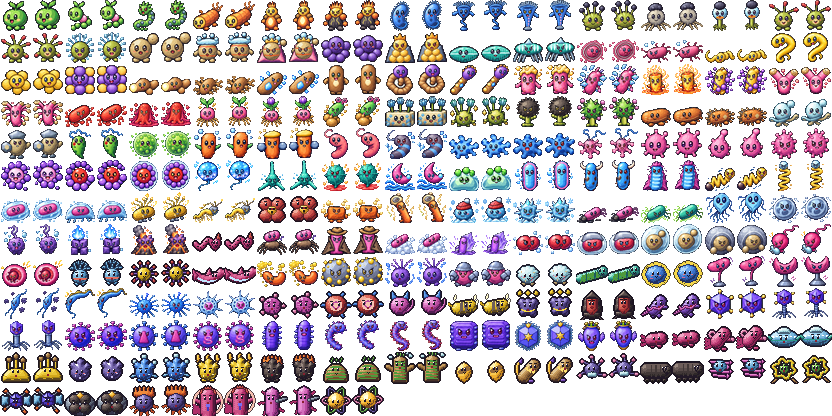
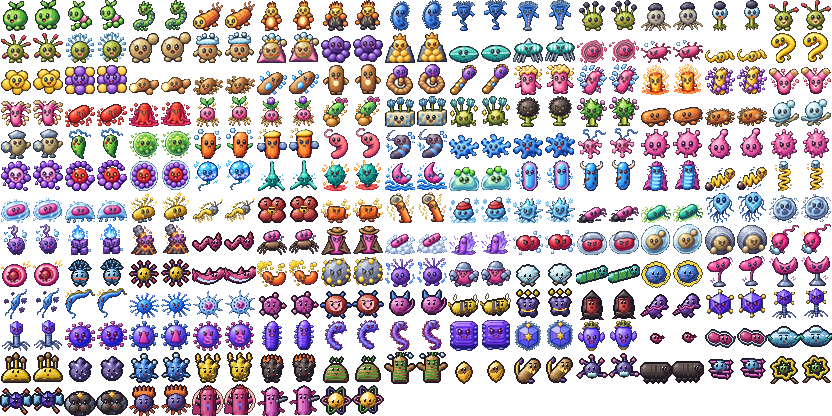
Sustituye la línea Coli-K12/BL21 por Legionel/Pneumophila: E. coli solo es el legendario O157
Claude-Session: https://claude.ai/code/session_018v1fAZrQHSEnPWssP3zxe4

Changed region(s): [[0.75, 0.7812, 0.9375, 0.8438]]

diff --git a/src/game/world/maps.ts b/src/game/world/maps.ts
@@ -130,7 +130,7 @@ add(casa("casa-vecina", "Casa vecina", { to: "pueblo-plaqueta", x: 14, y: 5 }, [
   b.warp({ x: 10, y: 0, w: 2, to: "ciudad-viral", tx: 11, ty: 18, dir: 1, keep: "x" });
   b.encounters([
     { sp: "mucorin", min: 2, max: 4, w: 30 }, { sp: "sacchari", min: 2, max: 4, w: 25 }, { sp: "casei", min: 3, max: 4, w: 12 },
-    { sp: "navicula", min: 2, max: 4, w: 10 }, { sp: "epidermi", min: 3, max: 5, w: 10 }, { sp: "coli-k12", min: 2, max: 5, w: 8 },
+    { sp: "navicula", min: 2, max: 4, w: 10 }, { sp: "epidermi", min: 3, max: 5, w: 10 }, { sp: "legionel", min: 2, max: 5, w: 8 },
     { sp: "proteus-am", min: 3, max: 4, w: 5 },
   ]);
   add(b.done({ music: "ruta" }));
@@ -932,7 +932,7 @@ add(casa("casa-agar", "Casa de Ciudad Agar", { to: "ciudad-agar", x: 22, y: 16 }
   b.npc({ id: "gym5-b", x: 1, y: 10, sprite: "chica", dir: 3, trainer: {
     name: "Laura", clase: "Técnica de Fermentación", team: [["perfringens", 33], ["thermus", 33], ["acetobuty", 34]], sight: 5, money: 150,
     intro: "¡Fermentación ABE: acetona, butanol y etanol! ¿Sabes quién la inventó?", lose: "Chaim Weizmann estaría decepcionado…", after: "La fermentación ABE se usó en la Primera Guerra Mundial para fabricar acetona." } });
-  b.npc({ id: "guia-gym5", x: 4, y: 14, sprite: "becario", dir: 0, talk: ["¡Hola, aspirante! Te doy un consejo.", "El Dr. Mas usa Anaerobios, Antibióticos y Extremófilos de escala industrial.", "¡Su Coli-BL21 es una superfactoría: aguanta mucho!"] });
+  b.npc({ id: "guia-gym5", x: 4, y: 14, sprite: "becario", dir: 0, talk: ["¡Hola, aspirante! Te doy un consejo.", "El Dr. Mas usa Anaerobios, Antibióticos y Extremófilos de escala industrial.", "¡Su Pneumophila salió de una torre de refrigeración: aguanta mucho!"] });
   b.warp({ x: 5, y: 16, w: 3, to: "ciudad-agar", tx: 20, ty: 8, dir: 0 });
   add(b.done({ music: "gimnasio" }));
 }
@@ -1243,7 +1243,7 @@ add(casa("casa-pili", "Casa de Ciudad Pili", { to: "ciudad-pili", x: 21, y: 14 }
   b.npc({ id: "conj-1", x: 12, y: 17, sprite: "chica", move: "pasear", talk: "La conjugación bacteriana es como un intercambio de genes con un puente de pilus. ¡Por eso la isla se llama así!" });
   b.encounters([
     // isla de la conjugación: bacterias que intercambian genes (plásmidos, T-DNA, fagos temperados) y algún virus
-    { sp: "coli-bl21", min: 46, max: 48, w: 14 }, { sp: "bacteriovor", min: 46, max: 48, w: 12 }, { sp: "agrobacter", min: 46, max: 48, w: 12 },
+    { sp: "pneumophila", min: 46, max: 48, w: 14 }, { sp: "bacteriovor", min: 46, max: 48, w: 12 }, { sp: "agrobacter", min: 46, max: 48, w: 12 },
     { sp: "aeruginosa", min: 46, max: 48, w: 10 }, { sp: "chlamydia", min: 46, max: 48, w: 8 }, { sp: "pleomorph", min: 45, max: 47, w: 8 },
     { sp: "lambda-v", min: 46, max: 48, w: 10 }, { sp: "marburg-v", min: 47, max: 49, w: 8 }, { sp: "lentivir", min: 46, max: 48, w: 8 },
     { sp: "mimivir", min: 47, max: 49, w: 6 }, { sp: "retrovir-x", min: 50, max: 50, w: 4 },
@@ -1279,7 +1279,7 @@ add(tienda("tienda-conjugada", "Isla Conjugada", { to: "isla-conjugada", x: 20, 
     intro: "¡Tres años de postdoc para esto! ¡Al menos déjame ganar un combate!", lose: "Ni eso…", after: "Arriba está el laboratorio profundo. Y el jefe. Y… eso." } });
   b.warp({ x: 6, y: 13, w: 3, to: "isla-conjugada", tx: 23, ty: 8, dir: 0 });
   b.warp({ x: 15, y: 2, to: "mansion-2", tx: 14, ty: 3, dir: 0 });
-  b.encounters([{ sp: "coli-k12", min: 45, max: 47, w: 30 }, { sp: "coli-bl21", min: 46, max: 48, w: 30 }, { sp: "lambda-v", min: 46, max: 48, w: 15 }, { sp: "marburg-v", min: 47, max: 49, w: 10 }, { sp: "pleomorph", min: 46, max: 48, w: 15 }]);
+  b.encounters([{ sp: "pleomorph", min: 45, max: 47, w: 30 }, { sp: "lambda-v", min: 46, max: 48, w: 25 }, { sp: "bacteriovor", min: 46, max: 48, w: 20 }, { sp: "marburg-v", min: 47, max: 49, w: 10 }, { sp: "pneumonia-k", min: 46, max: 48, w: 15 }]);
   add(b.done({ music: "guarida", floorEncounters: "suelo_madera" }));
 }
 {

diff --git a/src/game/scenes/casino.ts b/src/game/scenes/casino.ts
@@ -3,11 +3,11 @@ import type { Game, Overlay } from "../game";
 import { Gfx, W, H } from "../gfx";
 
 const REELS: string[][] = [
-  ["coli-k12", "casei", "synechoc", "coli-k12", "butyricum", "luca", "casei", "paramec", "coli-k12", "synechoc", "casei", "butyricum"],
-  ["casei", "coli-k12", "paramec", "luca", "synechoc", "coli-k12", "butyricum", "casei", "paramec", "coli-k12", "synechoc", "casei"],
-  ["synechoc", "casei", "coli-k12", "butyricum", "paramec", "casei", "luca", "coli-k12", "synechoc", "butyricum", "coli-k12", "paramec"],
+  ["legionel", "casei", "synechoc", "legionel", "butyricum", "luca", "casei", "paramec", "legionel", "synechoc", "casei", "butyricum"],
+  ["casei", "legionel", "paramec", "luca", "synechoc", "legionel", "butyricum", "casei", "paramec", "legionel", "synechoc", "casei"],
+  ["synechoc", "casei", "legionel", "butyricum", "paramec", "casei", "luca", "legionel", "synechoc", "butyricum", "legionel", "paramec"],
 ];
-const PAY: Record<string, number> = { luca: 100, synechoc: 15, butyricum: 15, paramec: 15, casei: 10, "coli-k12": 8 };
+const PAY: Record<string, number> = { luca: 100, synechoc: 15, butyricum: 15, paramec: 15, casei: 10, "legionel": 8 };
 const BET = 3;
 
 export function fichas(game: Game): number { return Number(game.state.flags.fichas ?? 0); }
@@ -57,7 +57,7 @@ export class SlotMachine implements Overlay {
     const s = this.pos.map((p, i) => REELS[i][Math.round(p) % 12]);
     let pay = 0;
     if (s[0] === s[1] && s[1] === s[2]) pay = PAY[s[0]] * BET;
-    else if (s[0] === "coli-k12" && s[1] === "coli-k12") pay = 2 * BET;
+    else if (s[0] === "legionel" && s[1] === "legionel") pay = 2 * BET;
     if (pay) {
       setFichas(this.game, fichas(this.game) + pay);
       this.win = pay; this.flash = 60;

diff --git a/tests/engine.test.ts b/tests/engine.test.ts
@@ -222,7 +222,7 @@ describe("Obediencia", () => {
     const run = (cap: number) => {
       let rebeld = 0;
       for (let seed = 1; seed <= 40; seed++) {
-        const b = new Battle({ player: [createMicroo("anthracis", 60, { rng: new Rng(seed) })], foe: [createMicroo("coli-k12", 60, { rng: new Rng(seed + 99) })], wild: true, seed, obeyCap: cap });
+        const b = new Battle({ player: [createMicroo("anthracis", 60, { rng: new Rng(seed) })], foe: [createMicroo("legionel", 60, { rng: new Rng(seed + 99) })], wild: true, seed, obeyCap: cap });
         b.drain();
         b.playTurn([{ kind: "move", slot: 0, move: 0, target: { side: 1, slot: 0 } }], [{ kind: "move", slot: 0, move: 0, target: { side: 0, slot: 0 } }]);
         if (b.drain().some((e) => /no te hace caso|pasa de tus|remolón|otra parte/.test(e.text))) rebeld++;
@@ -237,7 +237,7 @@ describe("Obediencia", () => {
 describe("Level Cap", () => {
   test("con levelCap, los Microos en el tope no ganan experiencia y se avisa", () => {
     const a = createMicroo("anthracis", 20, { rng: new Rng(3) }), lvl = a.level, exp = a.exp;
-    const b = new Battle({ player: [a], foe: [createMicroo("coli-k12", 5, { rng: new Rng(4) })], wild: true, seed: 5, levelCap: 20 });
+    const b = new Battle({ player: [a], foe: [createMicroo("legionel", 5, { rng: new Rng(4) })], wild: true, seed: 5, levelCap: 20 });
     b.drain();
     for (let t = 0; t < 6 && !b.ended; t++) b.playTurn([{ kind: "move", slot: 0, move: 0, target: { side: 1, slot: 0 } }], [{ kind: "move", slot: 0, move: 0, target: { side: 0, slot: 0 } }]);
     expect(b.outcome).toBe("win");

diff --git a/src/game/state.ts b/src/game/state.ts
@@ -47,12 +47,18 @@ export function loadGame(): GameState | null {
   try {
     const raw = localStorage.getItem(KEY);
     if (!raw) return null;
-    const s = JSON.parse(raw) as GameState;
+    const s = JSON.parse(migrarIds(raw)) as GameState;
     if (s.version !== 1) return null;
     s.avatar ??= "chica";
     repararUids(s);
     return s;
   } catch { return null; }
+}
+/** Especies renombradas: E. coli solo existe como el legendario O157, así que la línea Coli pasó a ser Legionella. */
+const IDS_VIEJOS: [string, string][] = [["coli-k12", "legionel"], ["coli-bl21", "pneumophila"]];
+export function migrarIds(raw: string): string {
+  for (const [a, b] of IDS_VIEJOS) raw = raw.split(`"${a}"`).join(`"${b}"`);
+  return raw;
 }
 /** Cada Microo necesita un uid único (las evoluciones y la experiencia se asignan por uid). Las partidas
  *  guardadas antes de corregirlo pueden tener repetidos: se renumeran y el contador sigue después del mayor. */

diff --git a/tools/build_species.py b/tools/build_species.py
@@ -42,7 +42,7 @@ LEGEND = {"prion-sc": 580, "viroid-cad": 580, "sputnik-v": 580,
 def bst_for(i):
     if i in LEGEND: return LEGEND[i]
     r, s, d = root(i), stage(i), depth(root(i))
-    special = {"coli-k12": 200, "coli-bl21": 540, "tardigrad": 540, "myxococcus": 288,
+    special = {"legionel": 200, "pneumophila": 540, "tardigrad": 540, "myxococcus": 288,
                "pleomorph": 325, "halomorph": 525, "electromorph": 525, "pyromorph": 525,
                "poxvir": 300, "mimivir": 420, "pandoravir": 600, "kefirgran": 450,
                "stromatol": 355, "cyanofossil": 495, "amberspor": 355, "palaeobacil": 495,
@@ -75,7 +75,7 @@ W = {  # hp atk def spa spd spe
 }
 SHAPE = {  # formas fijadas a mano
  "tardigrad": [1.9,1.05,1.05,0.6,1.1,0.3], "kefirgran": [2.6,0.45,0.55,0.8,1.35,0.6],
- "coli-k12": [0.8,0.4,1.4,0.6,0.8,1.6], "myxococcus": [1,1,1,1,1,1], "luca": [1,1,1,1,1,1],
+ "legionel": [0.8,0.4,1.4,0.6,0.8,1.6], "myxococcus": [1,1,1,1,1,1], "luca": [1,1,1,1,1,1],
  "ecoli-o157": [1.0,1.2,0.9,1.2,0.9,1.1], "salmonella-typhimurium": [1.0,0.9,0.9,1.3,1.0,1.2],
 }
 STATS = ["hp", "atk", "def", "spa", "spd", "spe"]
@@ -123,7 +123,7 @@ def size_class(i):
     return max(1, min(6, stage(i) + round(bst_for(i) / 200) - 1))
 
 # --- Movimientos ------------------------------------------------------------------
-EXCLUSIVE = {"mimetismo-molecular": {"myxococcus", "luca"}, "agitacion-en-placa": {"coli-k12", "luca"},
+EXCLUSIVE = {"mimetismo-molecular": {"myxococcus", "luca"}, "agitacion-en-placa": {"legionel", "luca"},
              "agotamiento-de-nutrientes": set()}
 HM = {m["id"] for m in moves if m.get("hm")}
 POOL = [m for m in moves if m["id"] not in EXCLUSIVE and m["id"] not in HM]
@@ -146,7 +146,7 @@ def learnset(i, doc_moves):
     if i == "luca":
         return [{"level": 1 + (k * 99) // 164, "move": x["id"]} for k, x in enumerate(moves) if x["id"] != "agotamiento-de-nutrientes"]
     if i == "myxococcus": return [{"level": 1, "move": "mimetismo-molecular"}]
-    if i == "coli-k12": return [{"level": 1, "move": "agitacion-en-placa"}, {"level": 15, "move": "contacto-celular"}]
+    if i == "legionel": return [{"level": 1, "move": "agitacion-en-placa"}, {"level": 15, "move": "contacto-celular"}]
     seed = r
     chosen = {}
     chosen[pick([mv[x] for x in STARTER_HIT], seed, 1)[0]["id"]] = 1
@@ -203,7 +203,7 @@ def mo_compat(i):
              "quorum-sensing-lux": {"Simbionte", "Gram-", "Intracelular", "Archaea", "Espiroqueta", "Alga"}}
     for k, tys in rules.items():
         if t & tys or i == "luca": res.append(k)
-    if by_id[i]["id"] in ("coli-k12", "myxococcus"): return []
+    if by_id[i]["id"] in ("legionel", "myxococcus"): return []
     return res
 
 def main():

diff --git a/tools/build_microdex.py b/tools/build_microdex.py
@@ -99,6 +99,18 @@ extra = {
 for k, v in extra.items():
     seen[k] = dict(name=k, **v)
 
+# --- E. coli solo existe como el legendario O157:H7 ---------------------------
+# La línea «Mutación Asombrosa» del GDD (Coli-K12 -> Coli-BL21, equivalente a Magikarp -> Gyarados) pasa a ser
+# Legionella: inofensiva dentro de amebas de charca (y ni siquiera crece en placa normal), temible en las torres de
+# refrigeración industriales.
+RENOMBRA = {"Coli-K12": ("Legionel", "Legionella de agua dulce, inofensiva, solo conoce Turbidez"),
+            "Coli-BL21": ("Pneumophila", "Legionella pneumophila de las torres de refrigeración")}
+for viejo, (nuevo, nota) in RENOMBRA.items():
+    r = seen.pop(viejo); r["name"], r["note"] = nuevo, nota; seen[nuevo] = r
+    order[order.index(viejo)] = nuevo
+for r in seen.values():
+    if r.get("prev") in RENOMBRA: r["prev"] = RENOMBRA[r["prev"]][0]
+
 # --- Conjunto canónico ------------------------------------------------------
 removed = []
 canon = []
@@ -199,7 +211,8 @@ TYPE_FIX = {
     "stromatol": ["Fotótrofo", "Biofilm"],     # tapete de cianobacterias
     "cyanofossil": ["Fotótrofo", "Gram-"],     # las cianobacterias tienen envoltura de tipo Gram-
     "prion-sc": ["Intracelular", "Extremófilo"],  # proteína, sin pared
-    "viroid-cad": ["Virus", "Intracelular"],   # ARN infeccioso de palmeras: ni espiroqueta ni fotótrofo
+    "viroid-cad": ["Virus", "Intracelular"],
+    "pneumophila": ["Gram-", "Intracelular"],  # Legionella se multiplica dentro de amebas y macrófagos   # ARN infeccioso de palmeras: ni espiroqueta ni fotótrofo
 }
 for o in out:
     if o["id"] in TYPE_FIX: o["types"] = TYPE_FIX[o["id"]]

diff --git a/tools/dex_text.py b/tools/dex_text.py
@@ -141,8 +141,8 @@ DEX = {
  "poxvir": ("Virus de la viruela", "Gran virus de ADN. Erradicado en 1980 gracias a la vacuna: la mayor victoria de la salud pública."),
  "mimivir": ("Acanthamoeba polyphaga mimivirus", "Tan grande que se confundió con una bacteria. Infecta amebas y tiene genes que ningún virus debería tener."),
  "pandoravir": ("Pandoravirus salinus", "Virus gigante con forma de ánfora. Más del 90 % de sus genes no se parecen a nada conocido."),
- "coli-k12": ("Escherichia coli K-12", "Cepa de laboratorio aislada en 1922. Inofensiva y dócil: la bacteria más estudiada de la historia."),
- "coli-bl21": ("Escherichia coli BL21(DE3)", "Fábrica de proteínas: sin proteasas molestas y con la polimerasa T7 lista para producir a toda máquina."),
+ "legionel": ("Legionella sp.", "Vive tranquila dentro de amebas de charcas y tuberías. En una placa normal ni siquiera crece."),
+ "pneumophila": ("Legionella pneumophila", "Prolifera en torres de refrigeración y aires acondicionados. Inhalada, causa la enfermedad del legionario."),
  "diatomax": ("Coscinodiscus sp.", "Diatomea gigante en forma de caja de Petri. Su frústula de vidrio está perforada como un encaje."),
  "myxococcus": ("Myxococcus xanthus", "Cazan en manada, como lobos. Cuando falta comida, miles se juntan y forman un cuerpo fructífero."),
  "pleomorph": ("Forma L bacteriana", "Bacteria que ha perdido la pared. Sin forma fija, puede adaptarse a cualquier ambiente."),

diff --git a/tools/build_trainers.py b/tools/build_trainers.py
@@ -8,7 +8,7 @@ T = [
  ("gym2","Dra. Núria Gajú","Gimnasio Ambiental · Ciudad Cultivo","Medalla Tapete",[("navicula",18),("desulfovib",19),("anabaen",21)]),
  ("gym3","Dra. Laia Guàrdia","Gimnasio Hongo · Ciudad Gram","Medalla Micelio",[("pilobolus",24),("flavus",25),("chrysogenum",27)]),
  ("gym4","Dr. Daniel Yero","Gimnasio Levadura · Ciudad Aerobia","Medalla Gemación",[("pastorian",29),("neoformans",30),("auris",32)]),
- ("gym5","Dr. Jordi Mas","Gimnasio Industrial · Ciudad Agar","Medalla Quimiostato",[("mobilis",35),("acetobuty",36),("avermitil",38),("coli-bl21",40)]),
+ ("gym5","Dr. Jordi Mas","Gimnasio Industrial · Ciudad Agar","Medalla Quimiostato",[("mobilis",35),("acetobuty",36),("avermitil",38),("pneumophila",40)]),
  ("gym6","Dr. Òscar Conchillo","Gimnasio Bioinfo · Instituto de Biotecnología","Medalla Algoritmo",[("pneumoniae",39),("aquaticus",40),("radiolaria",41),("pyrolobus",44)]),
  ("gym7","Dra. Marina Luquin","Gimnasio Clínico · Ciudad Pili","Medalla Ziehl-Neelsen",[("nocardia",47),("aeruginosa",48),("baumannii",48),("tuberculos",49)]),
  ("gym8","Dra. Susana Campoy","Gimnasio Fago · Isla Conjugada","Medalla Lisogenia",[("lambda-v",49),("bacteriovor",50),("marburg-v",51),("t4-titan",53)]),

diff --git a/tools/art/species_art.py b/tools/art/species_art.py
@@ -85,7 +85,7 @@ ART = {
  "rous-v": ("virus_env", {}), "lentivir": ("virus_env", {}), "retrovir-x": ("virus_env", {"fierce": True}),
  "lyssavir": ("virus_env", {"form": "bala"}), "marburg-v": ("virus_env", {"form": "filamento"}), "filovir-z": ("virus_env", {"form": "filamento", "fierce": True}),
  "poxvir": ("virus_env", {"form": "ladrillo"}), "mimivir": ("virus_env", {}), "pandoravir": ("virus_env", {"form": "anfora", "fierce": True}),
- "coli-k12": ("bacilo", {"flag": "peri", "mouth": "open"}), "coli-bl21": ("bacilo", {"flag": "peri", "chain": 2, "capsula": True, "fierce": True}),
+ "legionel": ("bacilo", {"flag": "polar", "mouth": "open"}), "pneumophila": ("bacilo", {"flag": "polar", "chain": 2, "capsula": True, "fierce": True}),
  "diatomax": ("diatomea", {"form": "radial"}), "myxococcus": ("arquea", {"r1": "Simbionte"}),
  "pleomorph": ("arquea", {"r1": "Levadura"}), "halomorph": ("arquea", {"form": "cuadrada", "r1": "Protozoo"}),
  "electromorph": ("espirilo", {"turns": 3, "r1": "Espiroqueta"}), "pyromorph": ("arquea", {"llama": True, "r1": "Anaerobio"}),

diff --git a/tools/art/designs2.py b/tools/art/designs2.py
@@ -384,10 +384,10 @@ def entamoeba(S, face=True):
 
 DESIGNS2 = {
     "mucorin": mucorin, "sacchari": sacchari, "casei": casei, "navicula": navicula, "epidermi": epidermi,
-    "coli-k12": coli_k12, "proteus-am": proteus_am, "phage-x174": phage_x174, "lambda-v": lambda_v,
+    "proteus-am": proteus_am, "phage-x174": phage_x174, "lambda-v": lambda_v,
     "griseus": griseus, "coelicol": coelicol, "avermitil": avermitil, "leptospir": leptospir,
     "interrogan": interrogan, "micrococ": micrococ, "sarcina": sarcina, "subtilis": subtilis,
     "lichenifor": lichenifor, "cereus": cereus, "listeria": listeria, "rhizopupa": rhizopupa,
     "mycoplas": mycoplas, "genitalium": genitalium, "pastorian": pastorian, "acidophilus": acidophilus,
-    "aureus": aureus, "pinnularia": pinnularia, "coli-bl21": coli_bl21, "entamoeba": entamoeba,
+    "aureus": aureus, "pinnularia": pinnularia, "entamoeba": entamoeba,
 }

diff --git a/tools/build_moves.py b/tools/build_moves.py
@@ -65,7 +65,7 @@ for l in gdd[start:]:
         "type": mtype, "category": category,
         "power": int(pw.group(1)) if pw else (s["basePower"] or None),
         "accuracy": s["accuracy"], "pp": s["pp"], "priority": s["priority"],
-        "target": s["target"], "desc": (power_text if category != "status" else effect_text).rstrip("."),
+        "target": s["target"], "desc": (power_text if category != "status" else effect_text).rstrip(".").replace("Coli-K12", "Legionel"),  # E. coli solo es el legendario
         "contact": bool(fl.get("contact")),
     }
     if hm: rec["hm"] = hm

diff --git a/PROGRESO.md b/PROGRESO.md
@@ -260,5 +260,11 @@ Roadmap: 7 fases (0–6). Cada fase termina en una puerta.
 
 - Lámina `assets/reference/microos/lineas_49_53.png` (Acantharia→Radiolaria, Phage-X174→Lambda-V→T4-Titan, Rous-V→Lentivir→Retrovir-X, Lyssavir→Marburg-V→Filovir-Z, Poxvir→Mimivir→Pandoravir).
 
+## E. coli solo como legendario
+
+- La línea Coli-K12 → Coli-BL21 (equivalente a Magikarp → Gyarados) pasa a ser Legionel → Pneumophila (*Legionella*): `RENOMBRA` en `build_microdex.py`, textos en `dex_text.py`, ids en especies, entrenadores (Gimnasio 5), mapas, casino y tests. Pneumophila es Gram-/Intracelular.
+- La Mansión de las Cepas conserva el diario de la cepa K-12 (lore del O157) pero ya no tiene E. coli salvajes.
+- `state.ts`: `migrarIds` convierte las partidas guardadas con los ids antiguos.
+
 ## Siguiente tarea
 Pendiente del GDD: Modo Torneo y mochila bloqueada en Difícil, objetos equipados, variocolor y RandomLocke. Posibles mejoras: más diálogos y misiones secundarias, mejorar la calidad de los sprites (Microos diseñados por especie, retratos limpios, pasos), música y efectos.
